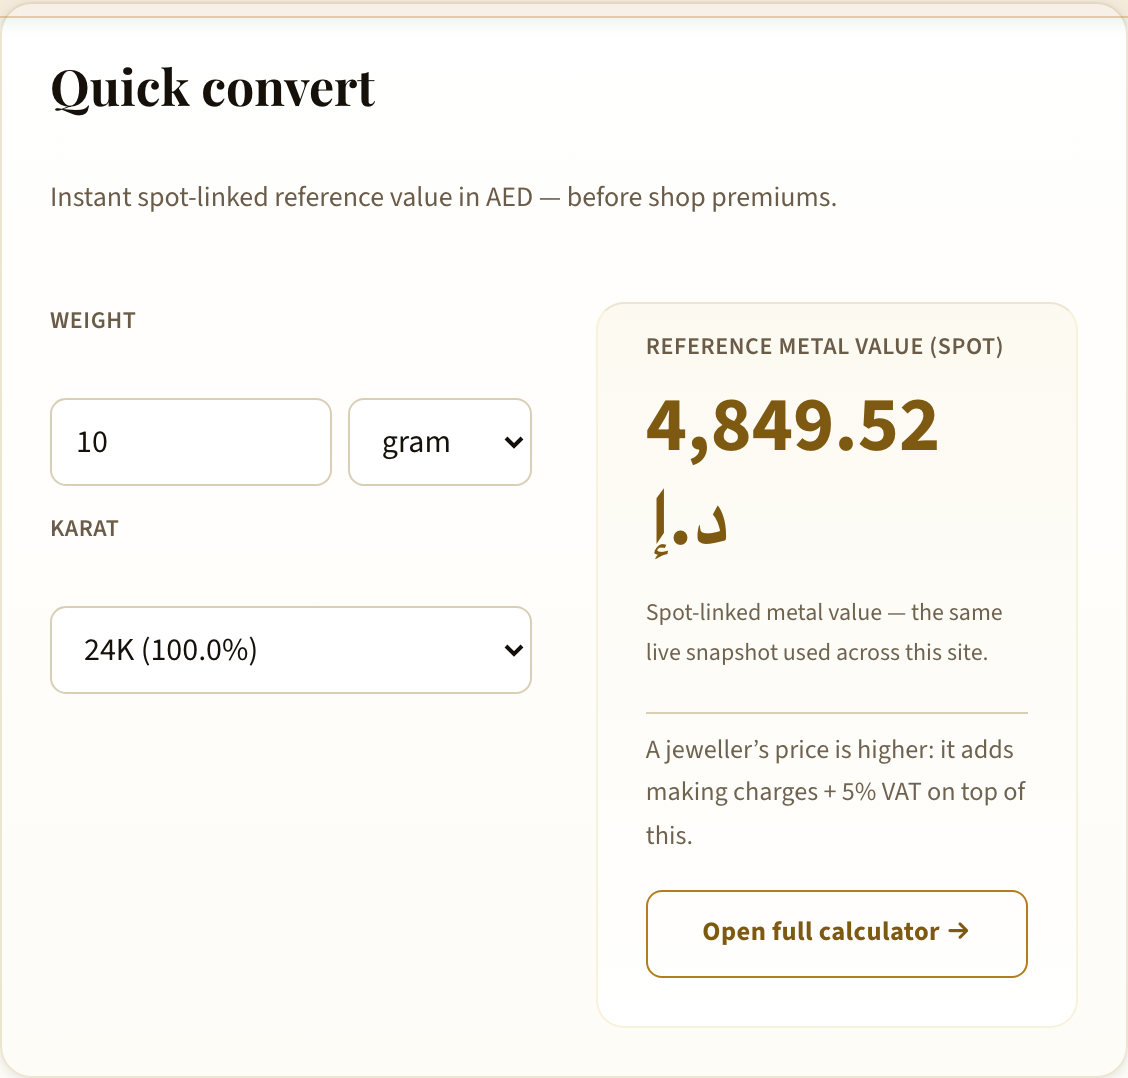
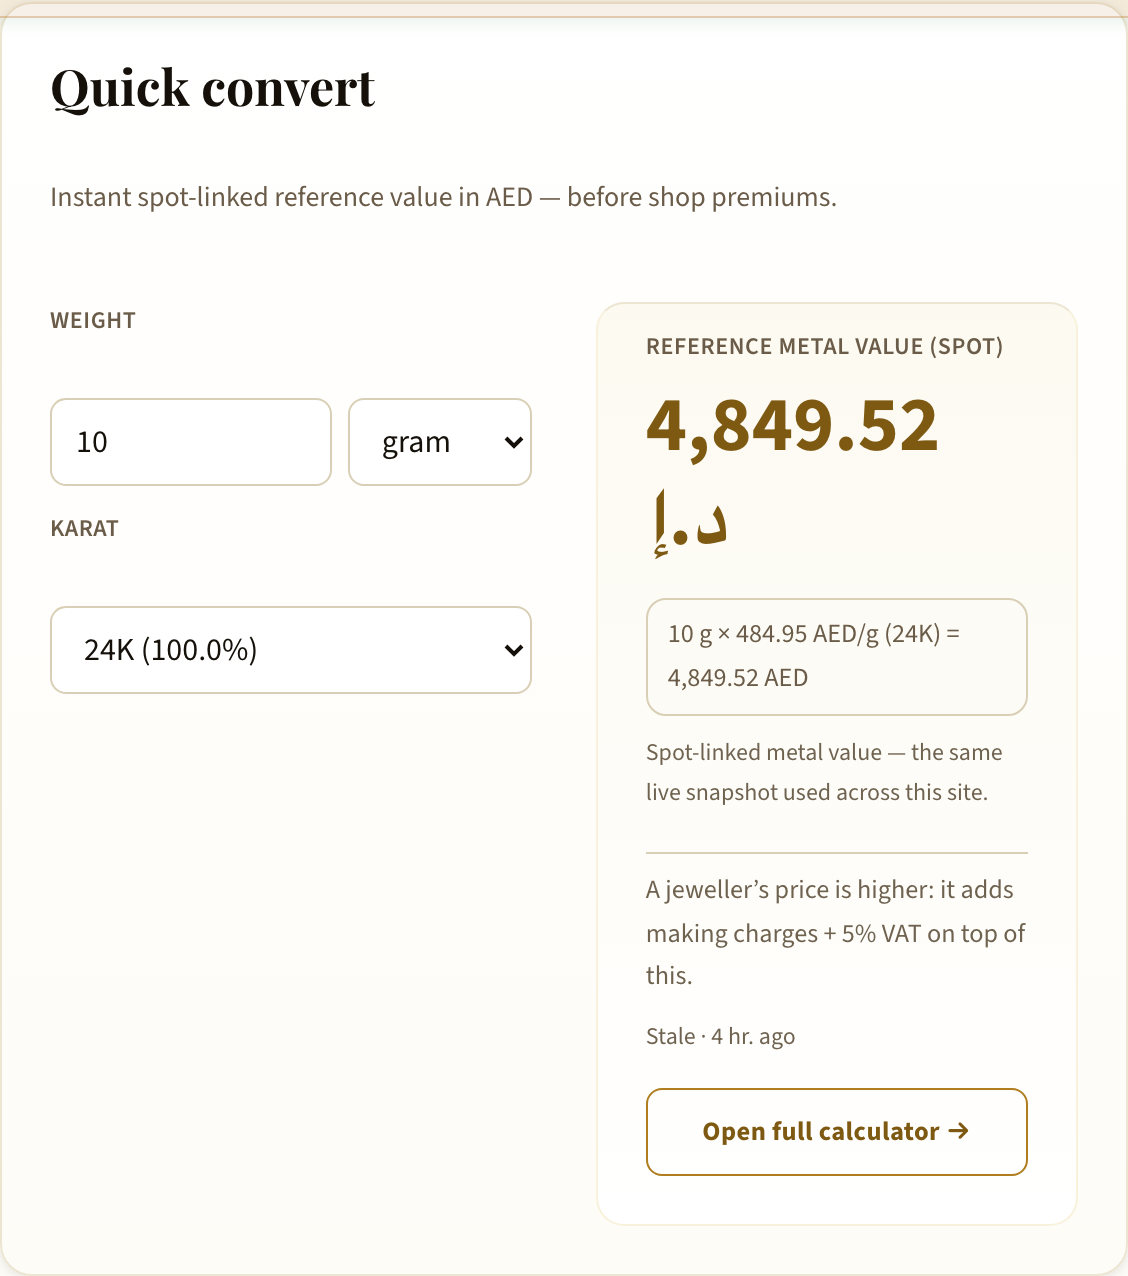
redesign(home): inline calculator — premium quick-value tool (formula, freshness, ladder link)
Raise the inline calculator to the owner standard — it answers "what is this piece worth
at today's REFERENCE spot?" and shows the maths, not a black box.

Now shows all of: selected karat · weight (g/tola/oz) · reference AED/g · calculated
reference value (prominent) · plain-language FORMULA ("10 g × 484.95 AED/g (24K) =
4,849.52 AED", forced-LTR so it reads correctly in AR too) · on-widget FRESHNESS
("Stale · 4 hr ago", same snapshot as hero/nav) · spot-reference disclaimer + explicit
retail-adds-making-charges+VAT line · path to the full calculator.

Karat-ladder linkage (both ways): selecting a karat in the ladder/dial flows into the
calculator and vice-versa (shared _selectedKarat; guarded against loops); added 14K to
the calc karat options to match the ladder.

Trust / F-1: never implies a final shop price; retail clearly labelled as excluded;
validation states (empty/invalid/unavailable) with aria-invalid + aria-live. The inline
calc CANNOT disagree with the full calculator or resolver — all three call the SAME
usdPerGram (src/lib/price-calculator.js) × CONSTANTS.AED_PEG (3.6725) × purity(code/24)
on the same committed spot (inline QuickConvertWidget.js:195 == calculator.js:486).
Verified 10g/24K = 4,849.52; per-gram 484.95 == resolver value shown in nav/hero/karat.

UX: instant update on weight/karat change; result visually prominent; INTERACTION CLS =
0.0000 (reserved formula/freshness space removed the earlier populate-shift).
[…]

diff --git a/src/components/QuickConvertWidget.js b/src/components/QuickConvertWidget.js
@@ -28,7 +28,7 @@ const UNIT_TO_GRAMS = {
  * instead of staying stuck on the placeholder. `spotUsdPerOz` is a static
  * fallback for callers that already have the value.
  */
-export function mountQuickConvertWidget({ lang, spotUsdPerOz, getSpot, t, mount }) {
+export function mountQuickConvertWidget({ lang, spotUsdPerOz, getSpot, getFreshness, t, mount }) {
   if (!mount) return null;
 
   let weight = 10;
@@ -77,7 +77,7 @@ export function mountQuickConvertWidget({ lang, spotUsdPerOz, getSpot, t, mount 
       id: 'home-quick-karat',
       'aria-label': t('quickConvertKarat'),
     },
-    ['24', '22', '21', '18'].map((code) => {
+    ['24', '22', '21', '18', '14'].map((code) => {
       const k = KARATS.find((item) => item.code === code);
       const pct = k ? `${(k.purity * 100).toFixed(1)}%` : '';
       return el('option', { value: code }, [`${code}K (${pct})`]);
@@ -103,6 +103,16 @@ export function mountQuickConvertWidget({ lang, spotUsdPerOz, getSpot, t, mount 
   const resultNote = el('p', { class: 'quick-convert-widget__result-note' }, [
     t('quickConvertNote'),
   ]);
+  // Plain-language formula: weight × AED/g (karat) = value — shows the maths, no black box.
+  const formulaLine = el('p', {
+    class: 'quick-convert-widget__formula',
+    id: 'home-quick-formula',
+  });
+  // On-widget freshness: proves the value uses the same live snapshot as the rest of the site.
+  const freshnessLine = el('p', {
+    class: 'quick-convert-widget__freshness',
+    id: 'home-quick-freshness',
+  });
   // Explicit reference (spot) vs retail (shop) distinction — trust guardrail.
   const retailNote = el('p', { class: 'quick-convert-widget__retail-note' }, [
     t('quickConvertRetail'),
@@ -133,8 +143,10 @@ export function mountQuickConvertWidget({ lang, spotUsdPerOz, getSpot, t, mount 
     el('span', { class: 'quick-convert-widget__result-label' }, [t('quickConvertResult')]),
     resultValue,
     resultHint,
+    formulaLine,
     resultNote,
     retailNote,
+    freshnessLine,
     calcLink,
   ]);
 
@@ -156,6 +168,12 @@ export function mountQuickConvertWidget({ lang, spotUsdPerOz, getSpot, t, mount 
     const spot = typeof getSpot === 'function' ? getSpot() : spotUsdPerOz;
     const grams = gramsFromInput();
     const raw = String(weightInput.value).trim();
+    // Freshness always reflects the current canonical snapshot (independent of input).
+    if (typeof getFreshness === 'function') {
+      const fr = getFreshness();
+      freshnessLine.textContent = fr ? `${fr.statusText} · ${fr.ageText}` : '';
+    }
+    formulaLine.textContent = '';
     // Validation / error states (explicit, not just a dash).
     if (!spot || !k) {
       resultValue.textContent = '—';
@@ -180,6 +198,14 @@ export function mountQuickConvertWidget({ lang, spotUsdPerOz, getSpot, t, mount 
       decimals: 2,
       format: (n) => formatPrice(n, 'AED', 2),
     });
+    // Plain-language formula (LTR — maths reads left-to-right in both languages).
+    // Uses a plain "AED" suffix (not the د.إ glyph) so the forced-LTR line never
+    // garbles the currency symbol; the big result above uses the site's formatPrice.
+    const money = (n) =>
+      n.toLocaleString('en-US', { minimumFractionDigits: 2, maximumFractionDigits: 2 });
+    const gramsStr = grams.toLocaleString('en-US', { maximumFractionDigits: 2 });
+    formulaLine.setAttribute('dir', 'ltr');
+    formulaLine.textContent = `${gramsStr} g × ${money(aedPerGram)} AED/g (${karat}K) = ${money(total)} AED`;
     calcLink.href = `calculator.html${serializeCalculatorUrlState({
       weight: String(weight),
       karat,

diff --git a/styles/pages/home-redesign.css b/styles/pages/home-redesign.css
@@ -846,6 +846,34 @@
   border-top: 1px solid var(--gtl-line);
   padding-top: 8px;
 }
+
+/* Formula + freshness reserve their space (min-height) so populating them after the
+   canonical seed lands causes NO layout shift; empty state is invisible (no box). */
+.quick-convert-widget__formula {
+  font-family: var(--gtl-num);
+  font-variant-numeric: tabular-nums lining-nums;
+  font-size: 0.82rem;
+  color: var(--gtl-ink-muted);
+  margin: 8px 0 0;
+  padding: 7px 10px;
+  background: var(--gtl-paper);
+  border: 1px solid var(--gtl-line);
+  border-radius: var(--gtl-r-sm);
+  min-height: 2.2rem;
+}
+.quick-convert-widget__formula:empty {
+  background: transparent;
+  border-color: transparent;
+}
+.quick-convert-widget__freshness {
+  display: flex;
+  align-items: center;
+  gap: 6px;
+  font-size: 0.75rem;
+  color: var(--gtl-ink-faint);
+  margin: 6px 0 0;
+  min-height: 1.1rem;
+}
 .quick-convert-widget__cta {
   align-self: flex-start;
   margin-top: var(--gtl-3);

diff --git a/src/pages/home.js b/src/pages/home.js
@@ -810,9 +810,24 @@ function mountHomeQuickConvert() {
     // price (cache-boot or live) lands, and the later recalc() calls must see
     // the current value instead of the null captured at mount time.
     getSpot: () => goldPrice,
+    // On-widget freshness reflects the same canonical snapshot as the hero/nav.
+    getFreshness: () => {
+      const { statusText, ageText } = getFreshnessMeta();
+      return { statusText, ageText };
+    },
     t: (key) => tx(key),
     mount,
   });
+  // Two-way karat link with the ladder/dial: selecting a karat in either updates both.
+  const qk = document.getElementById('home-quick-karat');
+  if (qk) {
+    qk.addEventListener('change', () => {
+      if (qk.value !== _selectedKarat && KARATS.some((k) => k.code === qk.value)) {
+        _selectedKarat = qk.value;
+        updateKaratDial();
+      }
+    });
+  }
 }
 
 function renderHomeAdditiveSections() {
@@ -1389,6 +1404,17 @@ function updateKaratDial() {
       item.classList.toggle('is-selected', k.code === _selectedKarat);
     }
   });
+
+  // Flow the karat selection into the inline calculator (karat ladder → calculator).
+  const qk = document.getElementById('home-quick-karat');
+  if (
+    qk &&
+    qk.value !== _selectedKarat &&
+    [...qk.options].some((o) => o.value === _selectedKarat)
+  ) {
+    qk.value = _selectedKarat;
+    _quickConvert?.recalc?.();
+  }
 }
 
 /** Make the ladder rungs a keyboard-accessible radio-group that drives the dial. */